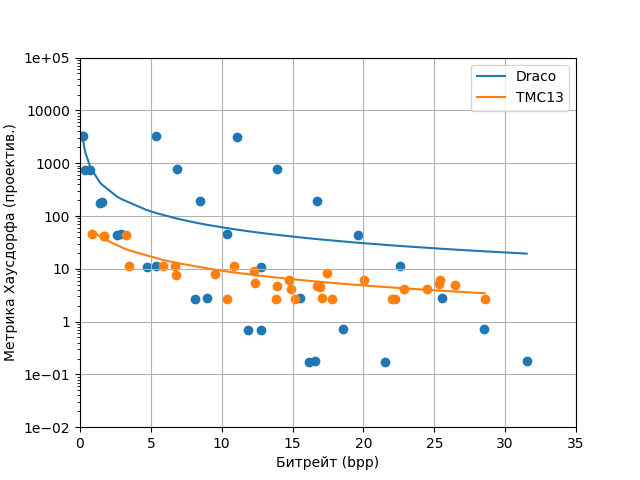
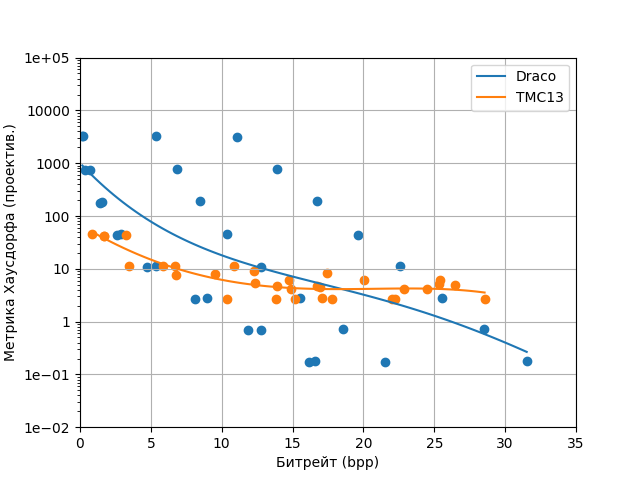
Approximate logarithm using chebyshev

diff --git a/collab_eval/vis.py b/collab_eval/vis.py
@@ -61,17 +61,16 @@ def approx(
 
     metric = metrics_dict[variable]
 
+    approx_bpp = np.linspace(bpp[0], bpp[-1], num=100)
     approx_vals = []
     if metric.scale == Scale.LINEAR:
-        fun = lambda t, a, b: a * np.log10(t) + b
-        coefs = spo.curve_fit(fun,  bpp, vals)[0]
-        approx_vals = np.array([fun(t, coefs[0], coefs[1]) for t in bpp])
+        coefs = herm.hermfit(bpp, vals, deg=4)
+        approx_vals = herm.hermval(approx_bpp, coefs)
     elif metric.scale == Scale.LOG:
-        fun = lambda t, a, b: 1 / (a * t + b)
-        coefs = spo.curve_fit(fun,  bpp, vals)[0]
-        approx_vals = np.array([fun(t, coefs[0], coefs[1]) for t in bpp])
+        coefs = herm.hermfit(bpp, np.log10(vals), deg=4)
+        approx_vals = np.power(10, herm.hermval(approx_bpp, coefs))
 
-    ax.plot(bpp, approx_vals, label=alg)
+    ax.plot(approx_bpp, approx_vals, label=alg)
     ax.scatter(bpp, vals)
 
     if metric.scale == Scale.LINEAR:
